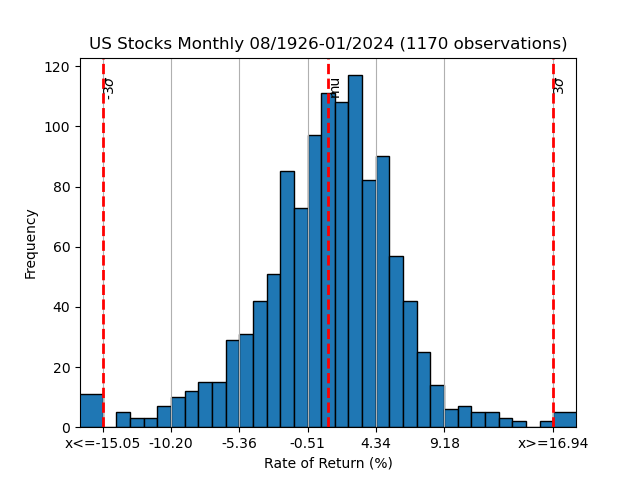
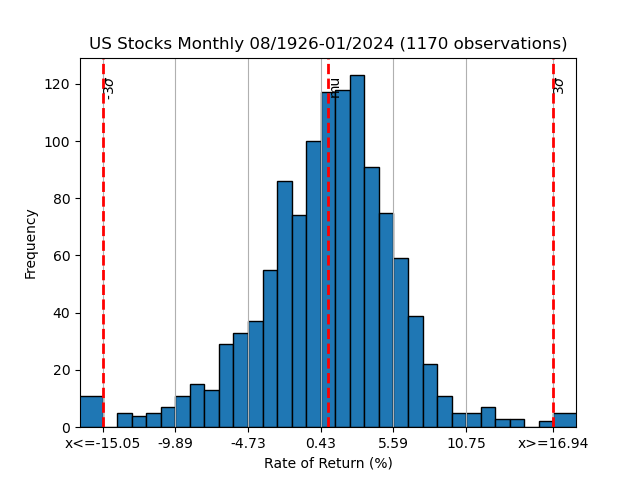
Minor plotting fix.

diff --git a/TimeVaryingVol/historical_vol.py b/TimeVaryingVol/historical_vol.py
@@ -9,7 +9,7 @@ def plot_histogram_with_grouping(returns, xlab, plot_title):
     sigma = np.std(returns)
     min_return, max_return = np.min(returns), np.max(returns)
     tail_distance = 3  # no. std devs beyond which it's considered tail of distribution
-    num_bins = int(np.power(len(returns), 1/2))
+    num_bins = int(np.power(len(returns), 1/2)) - 2
 
     bins = np.linspace(mu - tail_distance*sigma, mu + tail_distance*sigma, num_bins)
     if min_return < bins[0]:
